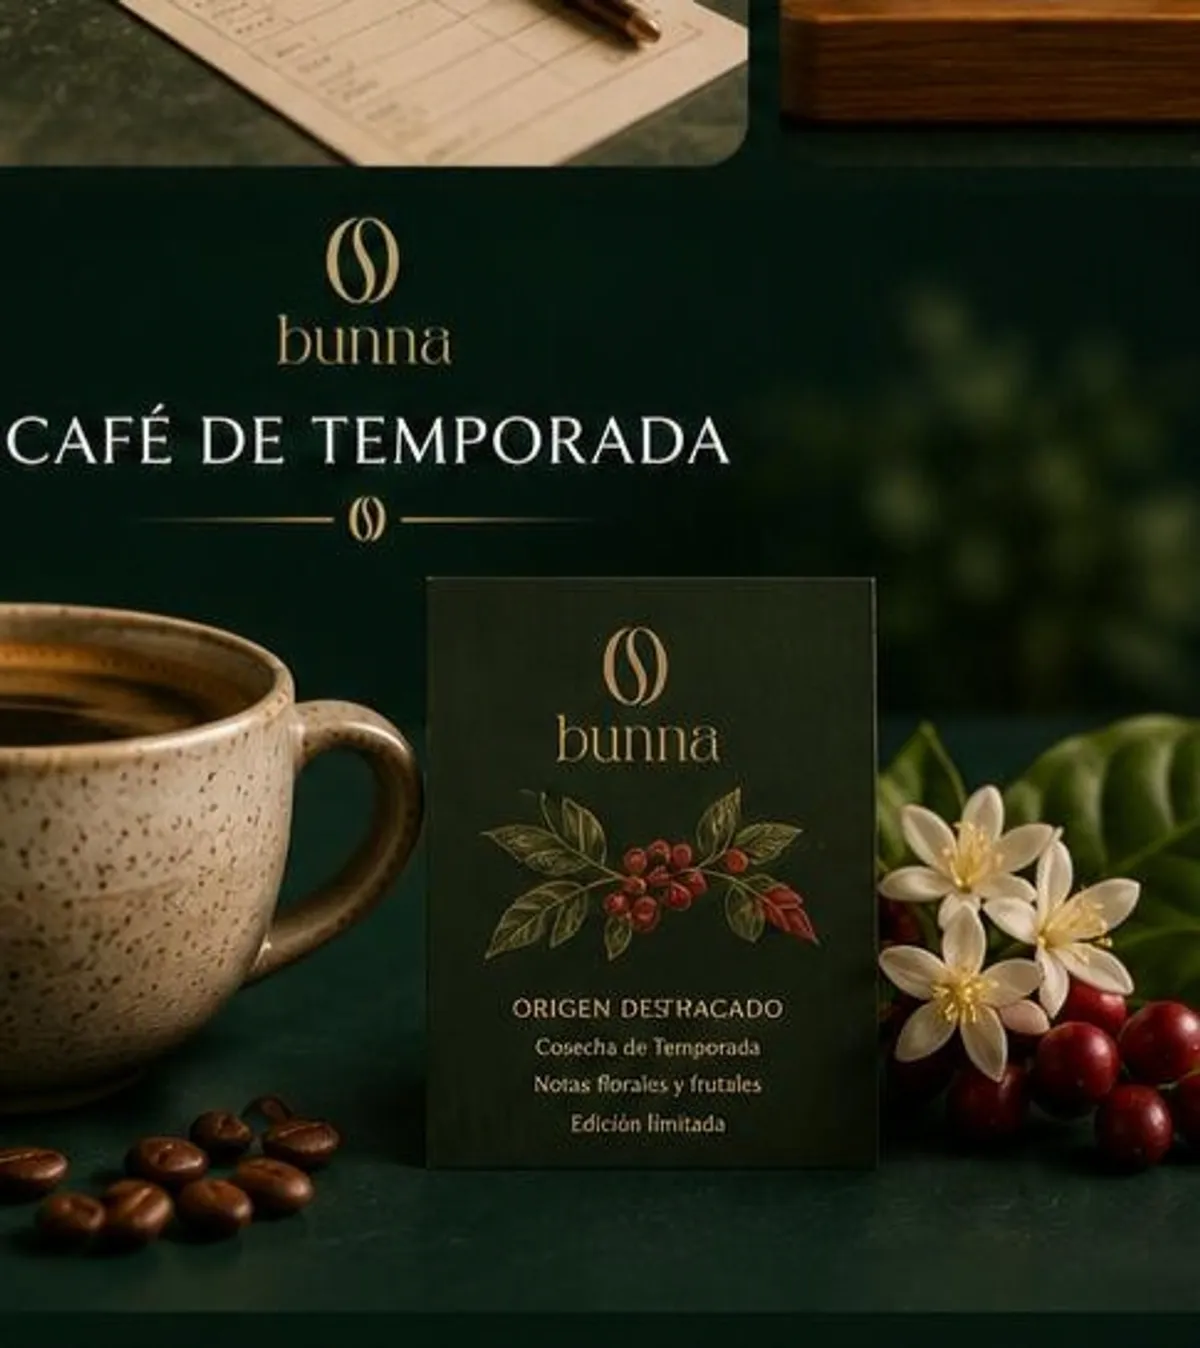
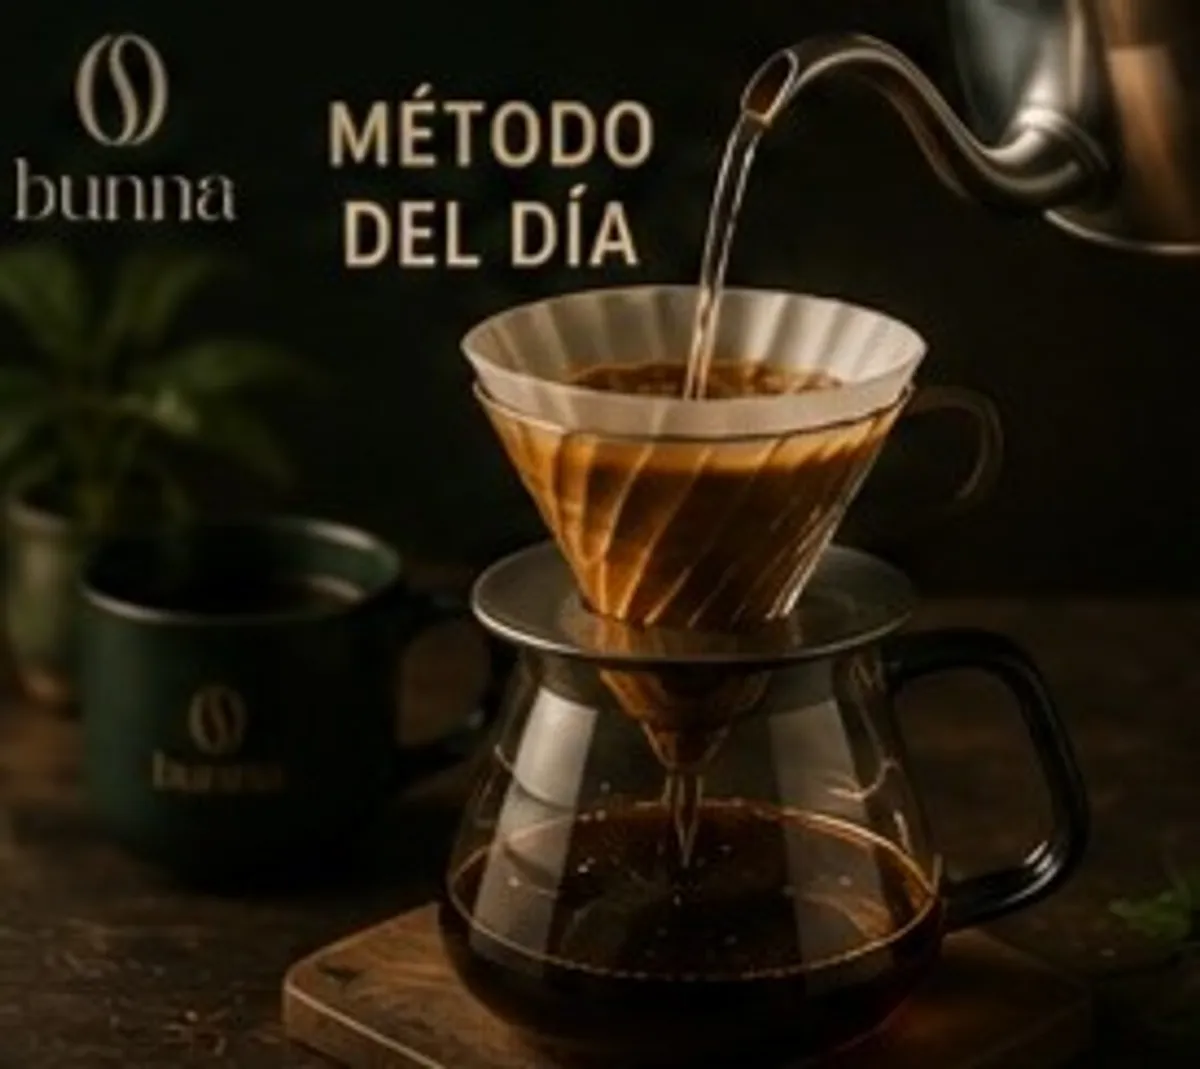
feat(menu): add menu images, update HTML styles, and adjust TS to center categories (close #8)

diff --git a/src/app/pages/cafeteria/menus/menus.component.ts b/src/app/pages/cafeteria/menus/menus.component.ts
@@ -1,4 +1,4 @@
-import {Component, computed, signal} from '@angular/core';
+import {afterNextRender, Component, computed, ElementRef, inject, signal} from '@angular/core';
 import {CAFETERIA_MENU, MenuCategoria} from "@pages/cafeteria/mocks/menu-categoria.mock";
 import {toSignal} from "@angular/core/rxjs-interop";
 import {map} from "rxjs";
@@ -15,6 +15,9 @@ import {CurrencyPipe, NgOptimizedImage} from "@angular/common";
   styles: ``
 })
 export class MenusComponent {
+  private route = inject(ActivatedRoute);
+  private elRef = inject(ElementRef<HTMLElement>);
+
   categorias: MenuCategoria[] = CAFETERIA_MENU;
 
   /** slug inicial que viene por queryParam, ej: /cafeteria/menu?categoria=cafes-filtrados */
@@ -25,28 +28,51 @@ export class MenusComponent {
 
   categoriaActiva = signal<string>(this.categorias[0].slug);
 
-  constructor(private route: ActivatedRoute) {
-    // si llega un queryParam válido, lo respeta; si no, se queda en la primera categoría
-    const inicial = this.slugInicial();
-    if (inicial && this.categorias.some((c) => c.slug === inicial)) {
-      this.categoriaActiva.set(inicial);
-    }
-  }
-
   categoriaSeleccionada = computed<MenuCategoria>(
     () => this.categorias.find((c) => c.slug === this.categoriaActiva()) ?? this.categorias[0],
   );
 
-  seleccionar(slug: string): void {
-    this.categoriaActiva.set(slug);
+  constructor() {
+    const inicial = this.slugInicial();
+    if (inicial && this.categorias.some((c) => c.slug === inicial)) {
+      this.categoriaActiva.set(inicial);
+    }
+
+    // una vez el DOM ya pintó los tabs, centra el tab activo (sin animación,
+    // para que no se sienta como un "salto" al cargar la página)
+    afterNextRender(() => {
+      this.centrarTab(this.categoriaActiva(), 'instant');
+    });
   }
 
+  seleccionar(slug: string): void {
+    this.categoriaActiva.set(slug);
+    this.centrarTab(slug, 'smooth');
+  }
+
+  private centrarTab(slug: string, behavior: ScrollBehavior): void {
+    const boton = this.elRef.nativeElement.querySelector(`[data-slug="${slug}"]`) as HTMLElement | null;
+    boton?.scrollIntoView({ behavior, inline: 'center', block: 'nearest' });
+  }
+
+  /**
+   * Convierte "Café de la Casa Bunna" -> "cafe-de-la-casa-bunna"
+   * para armar la ruta del asset: /images/menu/cafe-de-la-casa-bunna.webp
+   */
   getImageName(nombre: string): string {
     return nombre
-      .toLowerCase()
       .normalize('NFD')
-      .replace(/[\u0300-\u036f]/g, '')
+      .replace(/[\u0300-\u036f]/g, '') // quita tildes
+      .toLowerCase()
       .replace(/[^a-z0-9]+/g, '-')
-      .replace(/^-|-$/g, '');
+      .replace(/(^-|-$)/g, '');
+  }
+
+  /**
+   * Si la foto del item aún no existe en /images/menu, oculta el <img> roto
+   * y deja visible la inicial de fondo (ya está en el DOM, detrás de la imagen).
+   */
+  ocultarImagenRota(event: Event): void {
+    (event.target as HTMLImageElement).style.display = 'none';
   }
 }

diff --git a/src/app/pages/cafeteria/menus/menus.component.html b/src/app/pages/cafeteria/menus/menus.component.html
@@ -33,10 +33,11 @@
   <section class="bg-[#FAF8F5] dark:bg-[#0F0D0C]">
 
     <!-- Barra de tabs sticky -->
-    <div class="sticky top-0 z-20 border-b border-[#84745c]/15 bg-[#FAF8F5]/90 px-6 py-4 backdrop-blur-md dark:bg-[#0F0D0C]/90 sm:px-10 lg:px-16">
-      <div class="scrollbar-hide mx-auto flex max-w-5xl gap-2 overflow-x-auto">
+    <div class="sticky top-0 z-30 border-b border-[#84745c]/15 bg-[#FAF8F5]/90 px-6 py-4 backdrop-blur-md dark:bg-[#0F0D0C]/90 sm:px-10 lg:px-16">
+      <div class="scrollbar-hide mx-auto flex max-w-5xl gap-2 overflow-x-auto scroll-smooth">
         @for (cat of categorias; track cat.slug) {
           <button
+            [attr.data-slug]="cat.slug"
             (click)="seleccionar(cat.slug)"
             class="flex-none whitespace-nowrap rounded-full border px-5 py-2.5 font-['Inter'] text-sm font-medium transition-all duration-300"
             [class]="categoriaActiva() === cat.slug
@@ -72,14 +73,18 @@
           @for (item of cat.items; track item.nombre) {
             <div class="group flex items-center gap-4 rounded-xl border border-[#84745c]/10 bg-white p-4 transition-all duration-300 hover:border-[#84745c]/30 hover:shadow-lg hover:shadow-[#43331b]/5 dark:bg-[#1A1512] dark:hover:border-[#84745c]/25">
 
-              <!-- Imagen -->
-              <div class="relative flex-none overflow-hidden rounded-lg">
+              <!-- Imagen con fallback -->
+              <div class="relative flex h-[72px] w-[72px] flex-none items-center justify-center overflow-hidden rounded-lg bg-[#84745c]/10">
+                <span class="font-['Fraunces'] text-lg font-semibold text-[#84745c]">
+                  {{ item.nombre.charAt(0) }}
+                </span>
                 <img
                   [ngSrc]="'/images/menu/' + getImageName(item.nombre) + '.webp'"
                   [alt]="item.nombre"
                   width="72"
                   height="72"
-                  class="h-[72px] w-[72px] object-cover transition-transform duration-500 group-hover:scale-110"
+                  (error)="ocultarImagenRota($event)"
+                  class="absolute inset-0 h-[72px] w-[72px] object-cover transition-transform duration-500 group-hover:scale-110"
                 />
                 @if (item.destacado) {
                   <div class="absolute -right-1 -top-1">
@@ -91,7 +96,7 @@
               </div>
 
               <!-- Info -->
-              <div class="flex-1 min-w-0">
+              <div class="min-w-0 flex-1">
                 <div class="flex items-center gap-2">
                   <span class="font-['Inter'] text-[15px] font-medium text-[#43331b] dark:text-[#FAF8F5]">{{ item.nombre }}</span>
                   @if (item.destacado) {

diff --git a/tailwind.config.js b/tailwind.config.js
@@ -57,5 +57,15 @@ module.exports = {
       }
     },
   },
-  plugins: [],
+  plugins: [
+    function({ addUtilities }) {
+      addUtilities({
+        '.scrollbar-hide': {
+          '-ms-overflow-style': 'none',
+          'scrollbar-width': 'none',
+          '&::-webkit-scrollbar': { display: 'none' },
+        },
+      });
+    },
+  ],
 };